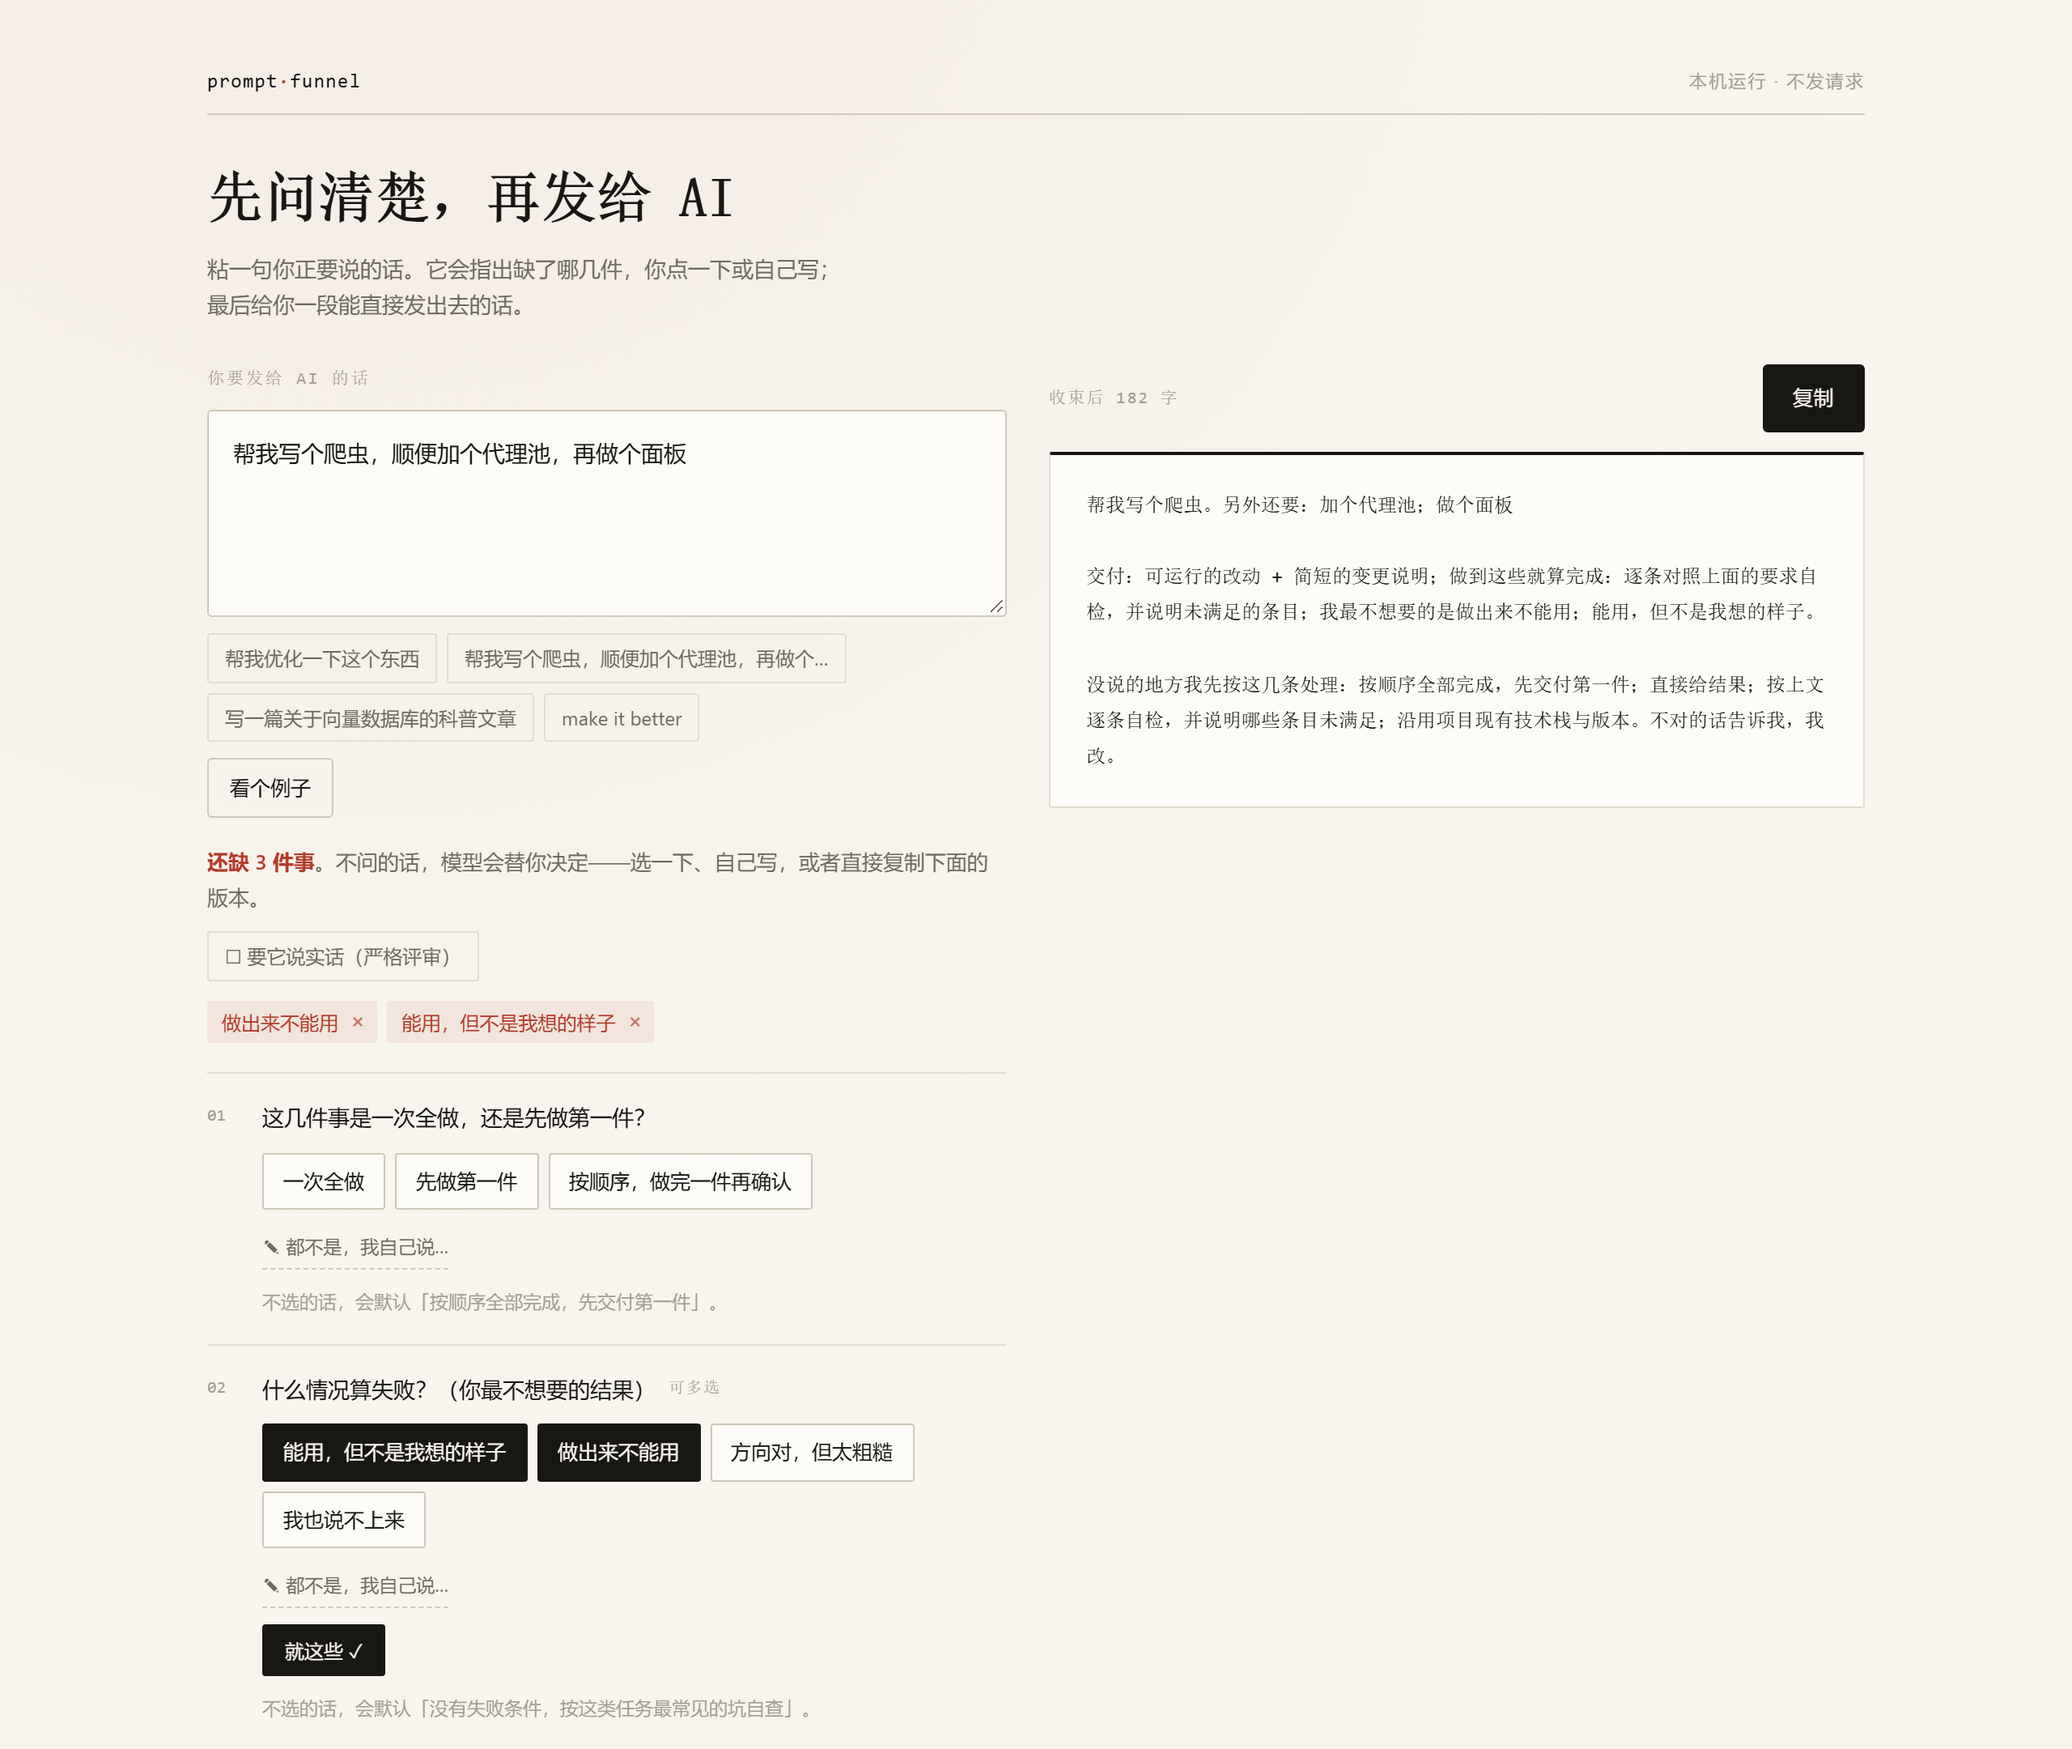
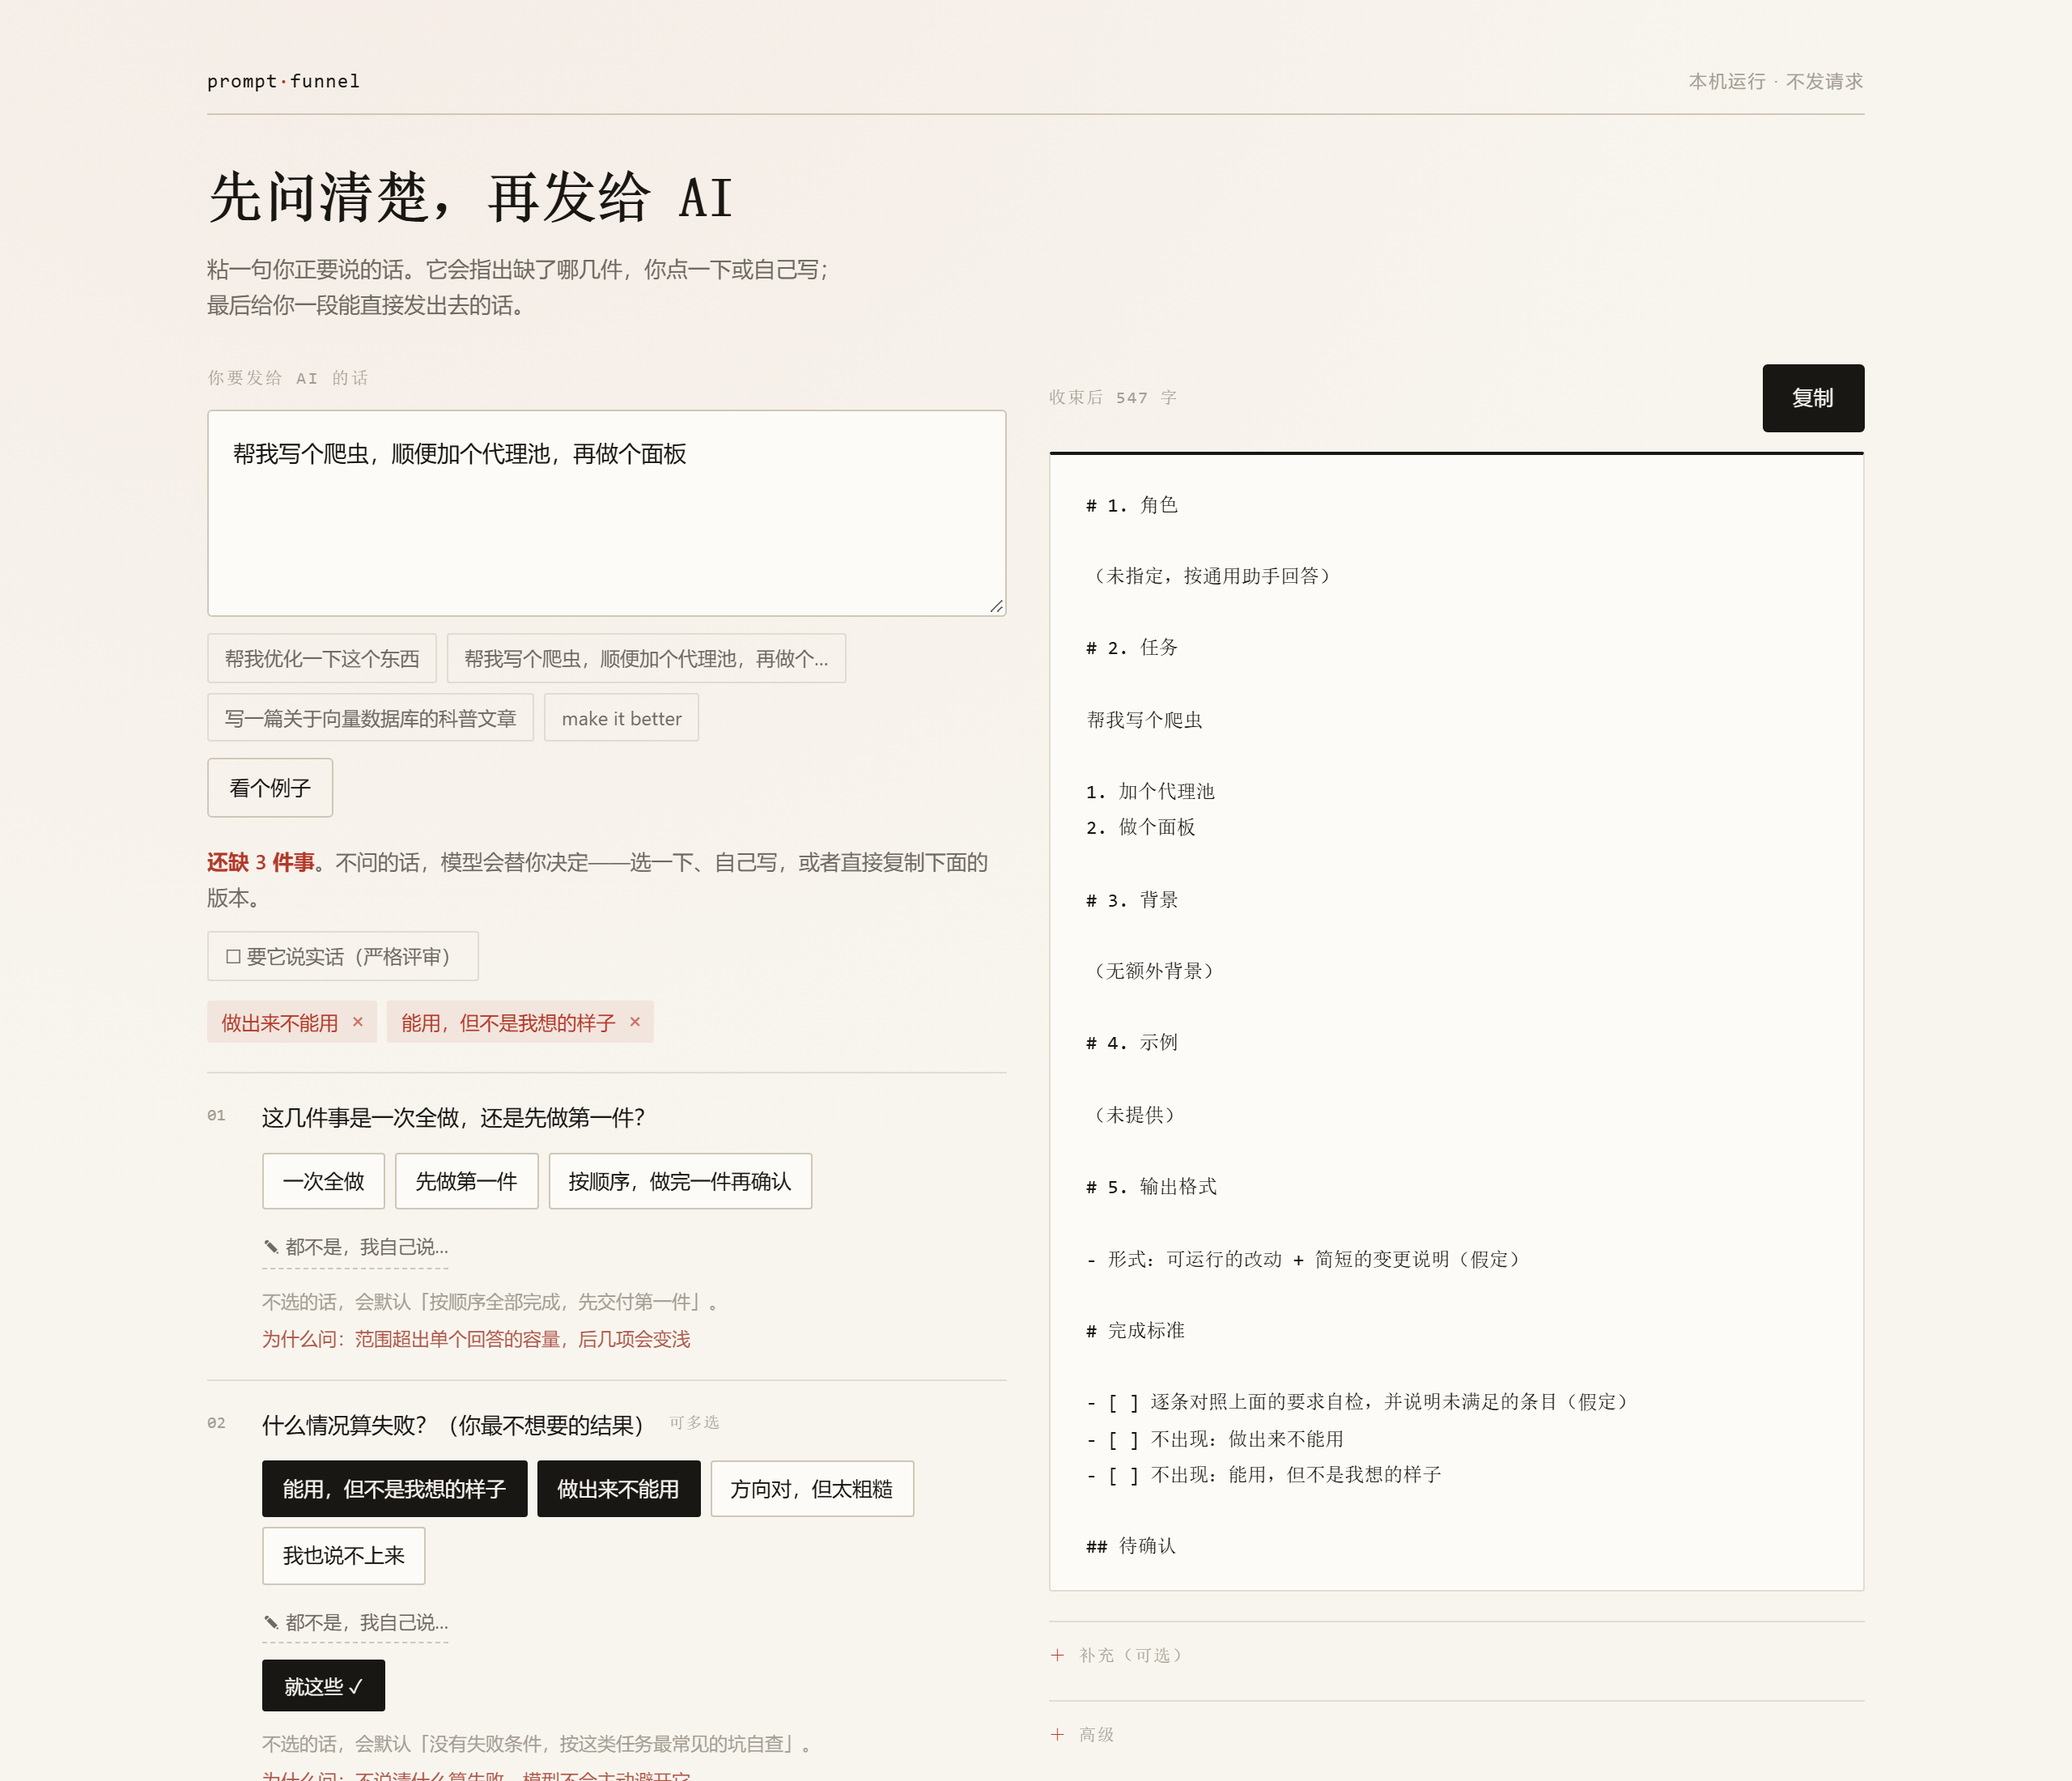
feat: five-part template layout, and tell people why each question is asked
The compiled prompt did not look like the template people are taught: it was one
chat paragraph. A `template` style now emits the five parts by name (role / task
/ context / examples / output format), marks a missing part as "未指定" instead of
silently dropping it, and is the page default. `chat` stays for pasting into a
chat box.

Each question now says why it is asked, not just what the default would be, and
the optional controls (examples, JSON fields, template, style, spec) moved to the
right column so the left one is only input and questions.

Fixes a real fidelity bug: text the tool itself generates ("先给 2–3 个方案") had
digits the source never contained, so the report showed invented numbers. The
rule is unchanged — only the source may vouch for a literal — generated sentences
no longer carry digits, and heading/list markers are excluded from the scan.

diff --git a/src/render.ts b/src/render.ts
@@ -18,6 +18,7 @@ type Lang = 'zh' | 'en';
 
 interface Labels {
   objective: string;
+  task: string;
   output: string;
   outputOnly: string;
   role: string;
@@ -48,6 +49,7 @@ const LABELS: Record<Lang, Labels> = {
     objective: '目标',
     output: '输出格式',
     outputOnly: '只输出 JSON，不要任何解释文字。',
+    task: '任务',
     role: '角色',
     examples: '示例',
     exampleIn: '输入',
@@ -74,6 +76,7 @@ const LABELS: Record<Lang, Labels> = {
     objective: 'Objective',
     output: 'Output format',
     outputOnly: 'Output JSON and nothing else.',
+    task: 'Task',
     role: 'Role',
     examples: 'Examples',
     exampleIn: 'input',
@@ -371,6 +374,56 @@ function renderChat(spec: PromptSpec, labels: Labels): string[] {
   return [paragraphs.join('\n\n')];
 }
 
+/**
+ * `template`: the five-part production template, as a document.
+ *
+ * Role / task / context / examples / output format, in that order, because that
+ * is the shape people are taught to write and the one they ask for by name.
+ * `chat` stays the default for pasting into a chat box; this one is for a
+ * prompt that will be kept, shared or versioned.
+ */
+function renderTemplate(spec: PromptSpec, labels: Labels): string[] {
+  const out: string[] = [];
+  const zh = labels.colon === '：';
+  const role = roleLine(spec, labels);
+
+  out.push(`## 1. ${labels.role}`, '', role ?? (zh ? '（未指定，按通用助手回答）' : '(not specified)'), '');
+  out.push(`## 2. ${labels.task}`, '', itemText(spec.objective, labels), '');
+  spec.requirements.forEach((requirement, index) => out.push(`${index + 1}. ${line(requirement, labels)}`));
+  if (spec.requirements.length > 0) out.push('');
+
+  out.push(`## 3. ${labels.context}`, '');
+  const context = contextLines(spec, labels);
+  out.push(...(context.length > 0 ? context : [zh ? '（无额外背景）' : '(none)']), '');
+  const constraints = [...spec.constraints, ...spec.nonGoals];
+  if (constraints.length > 0) {
+    for (const item of constraints) out.push(`- ${line(item, labels)}`);
+    out.push('');
+  }
+
+  out.push(`## 4. ${labels.examples}`, '');
+  const examples = exampleLines(spec, labels);
+  out.push(...(examples.length > 0 ? examples.map((entry) => `- ${entry}`) : [zh ? '（未提供）' : '(none)']), '');
+
+  out.push(`## 5. ${labels.output}`, '');
+  const output = outputLine(spec, labels);
+  const deliverable = deliverableLines(spec, labels);
+  out.push(...deliverable);
+  if (output !== undefined) out.push(`- ${output}`);
+  if (deliverable.length === 0 && output === undefined) out.push(zh ? '（未指定）' : '(not specified)');
+  out.push('');
+
+  if (spec.acceptance.length > 0) {
+    out.push(`## ${labels.acceptance}`, '');
+    for (const item of spec.acceptance) out.push(`- [ ] ${line(item, labels)}`);
+    out.push('');
+  }
+  if (spec.openQuestions.length > 0 || spec.assumptions.length > 0) {
+    out.push(...section(labels.questions, assumptionBody(spec, labels)));
+  }
+  return out;
+}
+
 /** Decide whether to re-attach the source text. */
 export function shouldKeepOriginal(spec: PromptSpec, mode: 'auto' | 'on' | 'off'): boolean {
   if (mode === 'on') return true;
@@ -393,7 +446,9 @@ export function renderSpec(
   const labels = LABELS[renderLanguage(spec.meta.source)];
 
   const body =
-    style === 'chat'
+    style === 'template'
+      ? renderTemplate(spec, labels)
+      : style === 'chat'
       ? renderChat(spec, labels)
       : style === 'compact'
         ? renderCompact(spec, labels)

diff --git a/playground/index.html b/playground/index.html
@@ -213,6 +213,7 @@
       }
       .q-done button:hover { background: var(--accent); border-color: var(--accent); }
       .q-foot { margin-top: 10px; font-size: 11.5px; color: var(--faint); }
+      .q-foot .why { display: block; margin-top: 3px; color: color-mix(in srgb, var(--accent) 70%, var(--faint)); }
 
       .seeds { display: grid; gap: 0; margin-top: 16px; }
       .seeds-note { font-family: var(--mono); font-size: 10.5px; letter-spacing: 0.06em; color: var(--faint); margin: 0 0 8px; }
@@ -314,6 +315,15 @@
           <div class="questions" id="questions"></div>
           <div class="seeds" id="seeds"></div>
 
+        </section>
+
+        <section class="pane pane-out">
+          <div class="out-head">
+            <span id="count">收束后</span>
+            <button class="primary" id="copy">复制</button>
+          </div>
+          <pre id="out" aria-live="polite"></pre>
+
           <details class="extra">
             <summary>补充（可选）</summary>
             <p class="extra-note">例子比形容词有用；要 JSON 就写字段名。</p>
@@ -345,6 +355,7 @@
               <div>
                 <label for="style">排版</label>
                 <select id="style">
+                  <option value="template">生产级模板（五段）</option>
                   <option value="chat">一句话（能直接发）</option>
                   <option value="bluf">分节</option>
                   <option value="compact">紧凑</option>
@@ -356,14 +367,7 @@
             <div class="spec"><pre id="spec"></pre></div>
             <div class="meta" id="fidelity"></div>
           </details>
-        </section>
 
-        <section class="pane pane-out">
-          <div class="out-head">
-            <span id="count">收束后</span>
-            <button class="primary" id="copy">复制</button>
-          </div>
-          <pre id="out" aria-live="polite"></pre>
         </section>
       </main>
 
@@ -539,7 +543,7 @@
                     <div class="q-options">${options}</div>
                     <div class="q-say">${customUi}</div>
                     ${question.multi === true && confirmed ? `<div class="q-done"><button type="button" data-done="${escapeHtml(question.id)}">就这些 ✓</button></div>` : ''}
-                    <div class="q-foot">不选的话，会默认「${escapeHtml(question.assumption.text)}」。</div>`;
+                    <div class="q-foot">不选的话，会默认「${escapeHtml(question.assumption.text)}」。<span class="why">为什么问：${escapeHtml(question.assumption.impact)}</span></div>`;
                   questionsEl.append(card);
                 }
         

diff --git a/src/questions.ts b/src/questions.ts
@@ -98,7 +98,7 @@ export function answerQuestion(spec: PromptSpec, id: string, answer: string | An
       if (ASK_FOR_OPTIONS.test(text)) {
         next.requirements = renumber([
           ...next.requirements,
-          { id: 'R?', text: '先给 3 个方向，各一句话说明取舍，等我选定再展开', source: 'user' },
+          { id: 'R?', text: '先给三个方向，各一句话说明取舍，等我选定再展开', source: 'user' },
         ]);
       } else {
         next.constraints.push({ text: `「新意 / 竞争力」的落点：${text}`, source: 'user' });
@@ -126,7 +126,7 @@ export function answerQuestion(spec: PromptSpec, id: string, answer: string | An
       } else {
         next.requirements = renumber([
           ...next.requirements,
-          { id: 'R?', text: '先给 2–3 个方案让我对比，再选一个执行', source: 'user' },
+          { id: 'R?', text: '先给两三个方案让我对比，再选一个执行', source: 'user' },
         ]);
       }
       break;

diff --git a/src/validate.ts b/src/validate.ts
@@ -48,8 +48,14 @@ export function checkFidelity(spec: PromptSpec, body: string): FidelityReport {
   const allowed = `${source}\n${spec.meta.note ?? ''}`.toLowerCase();
   const issues: Issue[] = [];
 
+  // Headings and list markers are scaffolding we wrote, not content: their
+  // numbers would otherwise read as invented literals.
+  const scanned = body
+    .replace(/^#{1,6}.*$/gmu, '')
+    .replace(/^\s*\d+[.)、]\s+/gmu, '');
+
   const unverifiable: string[] = [];
-  for (const token of extractHardTokens(body)) {
+  for (const token of extractHardTokens(scanned)) {
     if (allowed.includes(token.value.toLowerCase())) continue;
     unverifiable.push(token.value);
     if (token.kind === 'number' || token.kind === 'url' || token.kind === 'path') {

diff --git a/src/config.ts b/src/config.ts
@@ -58,7 +58,7 @@ function merge(base: FunnelConfig, patch: unknown): FunnelConfig {
       engine === 'auto' || engine === 'rules' || engine === 'api' || engine === 'host'
         ? (engine as FunnelConfig['engine'])
         : base.engine,
-    style: style === 'bluf' || style === 'compact' || style === 'checklist' || style === 'chat' ? style : base.style,
+    style: style === 'bluf' || style === 'compact' || style === 'checklist' || style === 'chat' || style === 'template' ? style : base.style,
     api: {
       baseUrl: typeof api['baseUrl'] === 'string' ? api['baseUrl'] : base.api.baseUrl,
       model: typeof api['model'] === 'string' ? api['model'] : base.api.model,

diff --git a/src/types.ts b/src/types.ts
@@ -144,7 +144,7 @@ export interface AnswerValue {
   custom?: string;
 }
 
-export type StyleName = 'bluf' | 'compact' | 'checklist' | 'chat';
+export type StyleName = 'bluf' | 'compact' | 'checklist' | 'chat' | 'template';
 
 /** One problem found while validating a spec or its rendering. */
 export interface Issue {

diff --git a/src/version.ts b/src/version.ts
@@ -1,5 +1,5 @@
 /** Single source of truth for the reported version. */
-export const VERSION = '0.13.0';
+export const VERSION = '0.14.0';
 
 
 

diff --git a/CHANGELOG.md b/CHANGELOG.md
@@ -1,5 +1,13 @@
 # 变更记录
 
+## 0.14.0
+
+- **五段式模板排版**（网页默认）：`## 1. 角色 / ## 2. 任务 / ## 3. 背景 / ## 4. 示例 / ## 5. 输出格式`，缺的部分明确写「未指定」，而不是悄悄省略。`chat`（一句话版）仍在，适合直接粘进对话框。
+- **每个问题都告诉你为什么问**：脚注从「不选的话会默认 X」扩展成「不选默认 X；为什么问：Y」。
+- **布局调整**：例子、JSON 字段、模板/排版、spec 都移到右栏结果下面，左栏只剩输入和问题。
+- **修了一个真错误**：保真校验把工具自己生成的文字（如「先给 2–3 个方案」里的数字）当成编造。现在生成的句子不含数字，标题和列表序号也不参与校验；规则本身没放松——只有原文能担保一个字面量。
+- 测试 159。
+
 ## 0.13.0
 
 - **结构化输出**：填一组字段名（`summary, risks, next_steps`），提示词末尾加「输出 JSON，字段：…；不要任何解释文字」。只说 `--json` 就是「只输出 JSON」。指定了就强制编译，不会被闸门原样放行丢掉。
